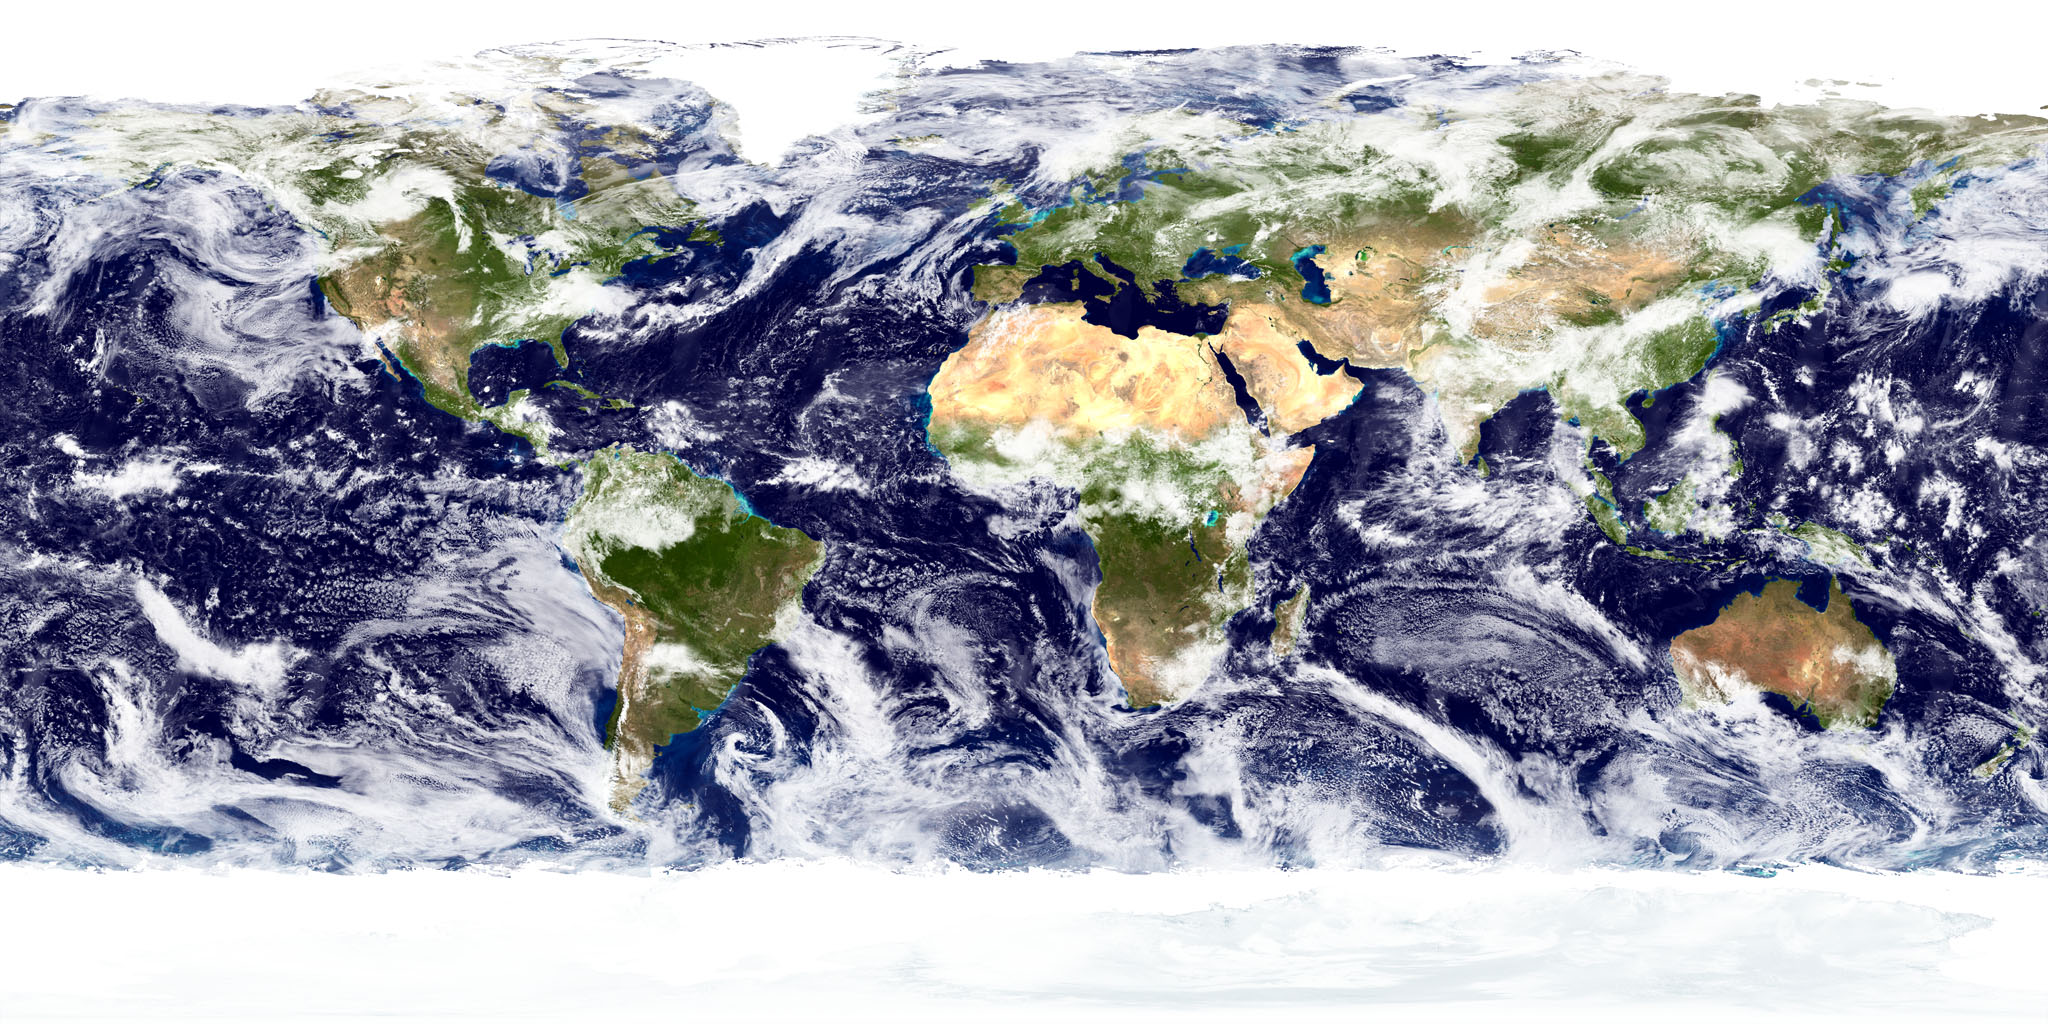
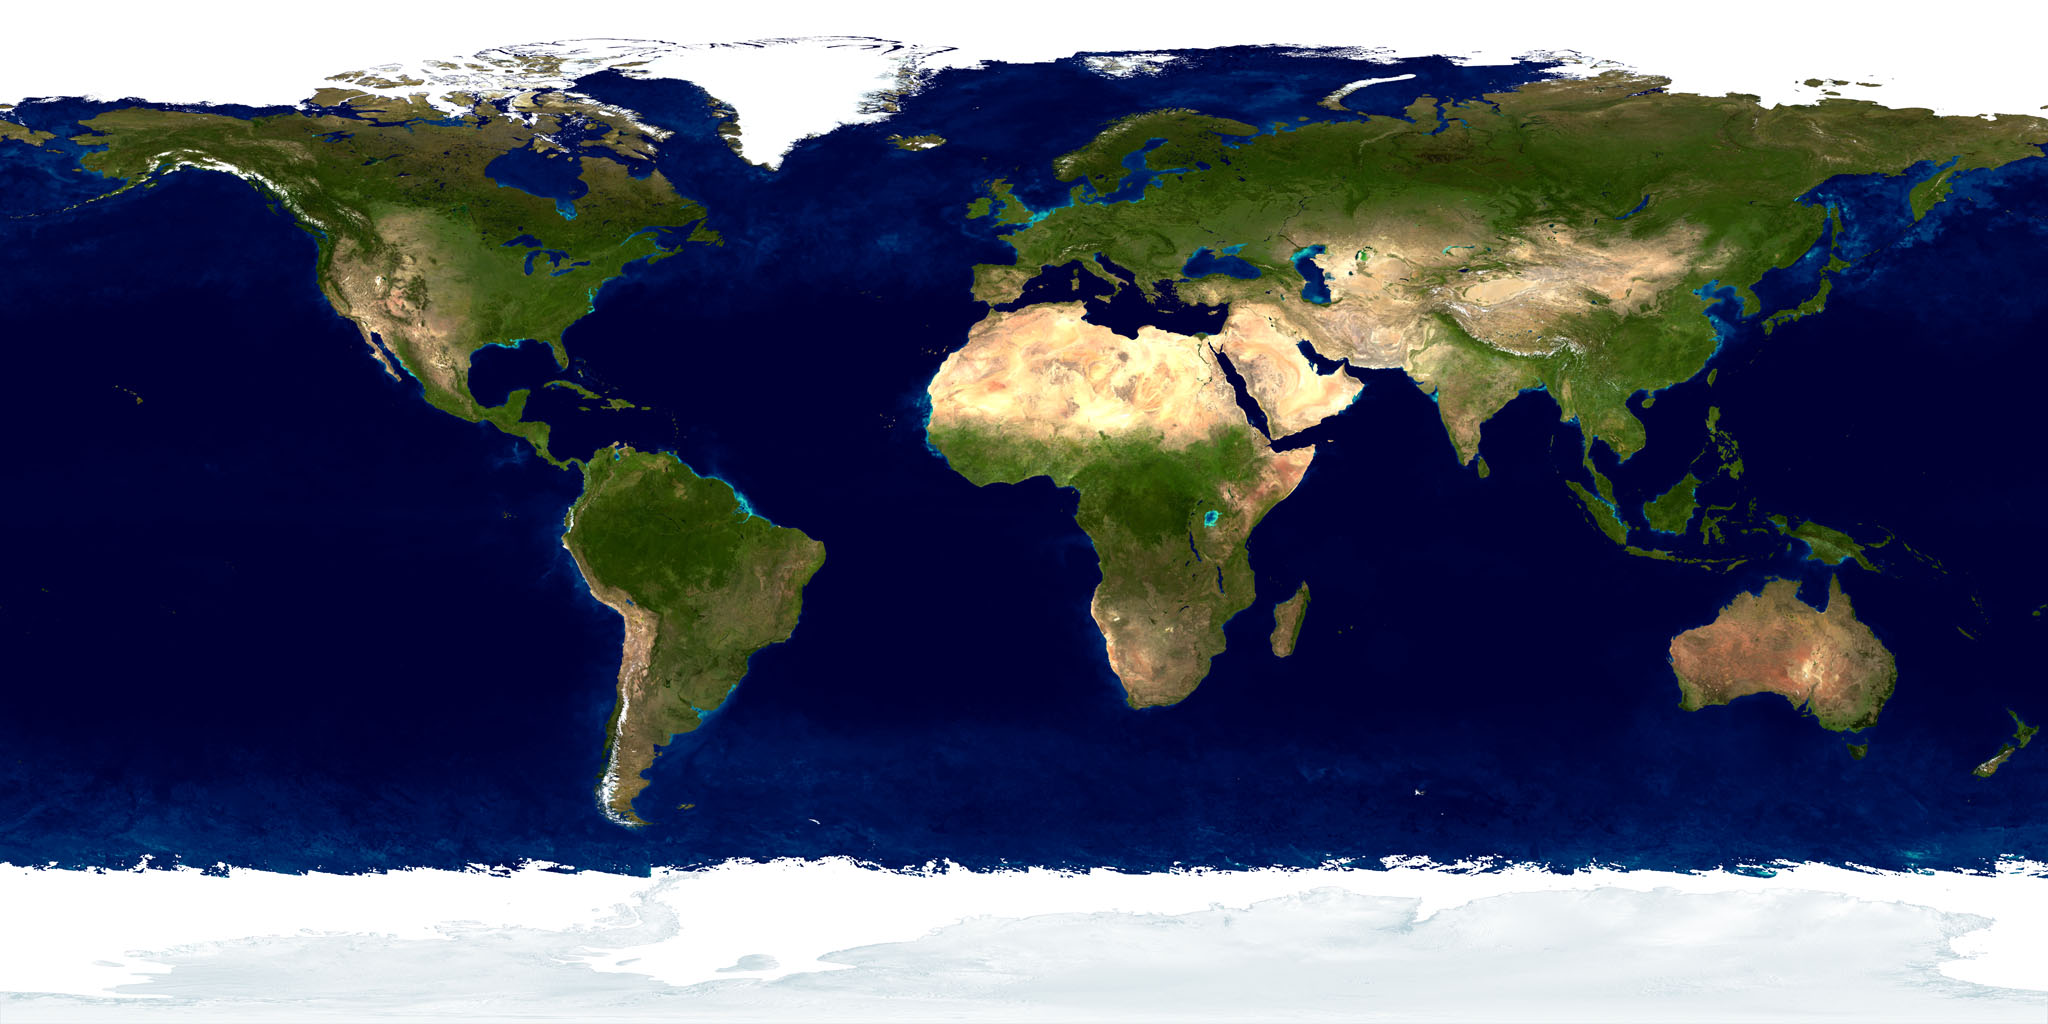
Swap globe texture to the cloud-free NASA Blue Marble

diff --git a/index.html b/index.html
@@ -14,7 +14,7 @@
   />
   <!-- The ?v= number forces browsers to fetch the newest files
        instead of old cached ones. Bump it when you change them. -->
-  <link rel="stylesheet" href="style.css?v=52" />
+  <link rel="stylesheet" href="style.css?v=53" />
 </head>
 <body>
 
@@ -191,6 +191,6 @@
     <span id="plane" class="plane" hidden>✈</span>
   </div>
 
-  <script src="script.js?v=52"></script>
+  <script src="script.js?v=53"></script>
 </body>
 </html>

diff --git a/script.js b/script.js
@@ -163,7 +163,7 @@ function loadEarthTexture() {
     };
     drawGlobe();
   };
-  img.src = "earth.jpg";
+  img.src = "earth.jpg?v=2"; // bump this if the photo file changes
 }
 
 // Reusable buffers for the photo globe, so we don't allocate new
